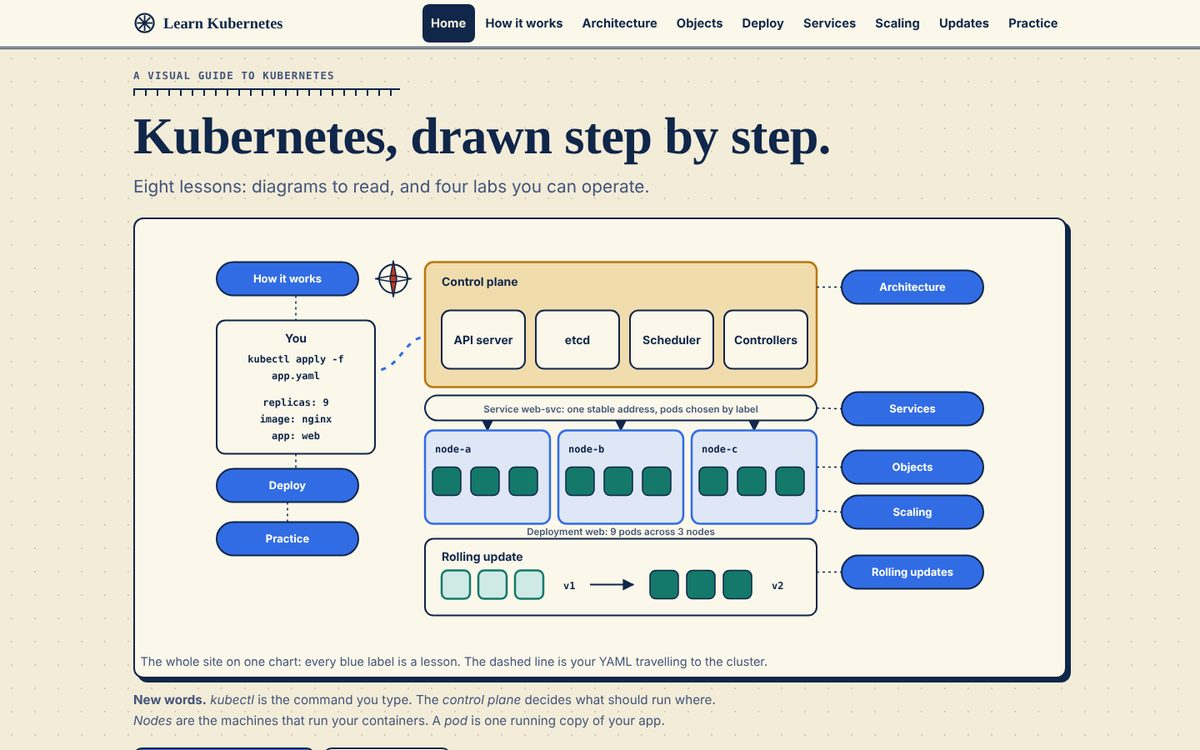
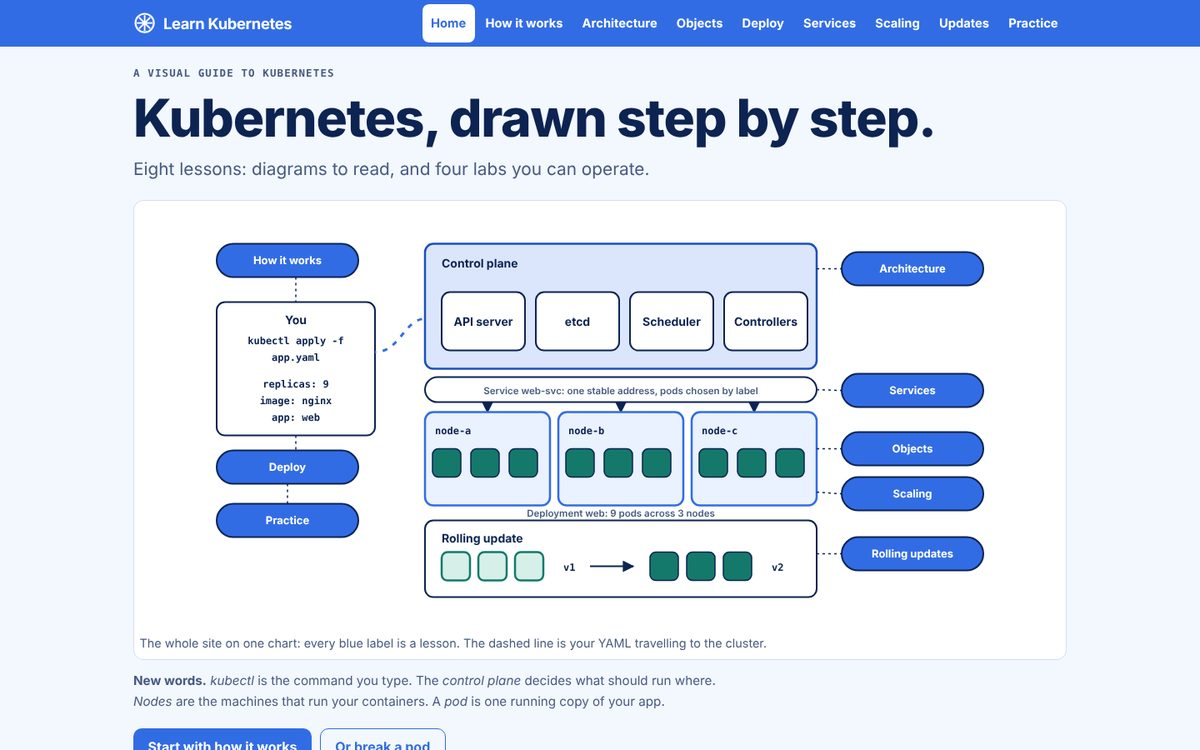
Update the Learn Kubernetes card for the blue redesign
Claude-Session: https://claude.ai/code/session_01Sp4uVZ5mknNP8RAVXqqUiN

diff --git a/site/index.html b/site/index.html
@@ -918,7 +918,7 @@
             <span class="meta">
               <span class="plate">No. 67</span>
               <span class="title" id="t-learnkubernetes">Learn Kubernetes</span>
-              <span class="line">Kubernetes drawn as a chart-room: a landing chart that links every lesson, hand-drawn diagrams of the control plane, objects and Services, and four labs where you kill a pod, flip a label and step through a rolling update.</span>
+              <span class="line">Kubernetes drawn plainly in Kubernetes blue: a landing chart that links every lesson, hand-drawn diagrams of the control plane, objects and Services, and four labs where you kill a pod, flip a label and step through a rolling update.</span>
               <span class="go" id="g-learnkubernetes">Visit learnkubernetes.shadw.app<span class="sr-only"> (opens in a new tab)</span></span>
             </span>
           </a>
